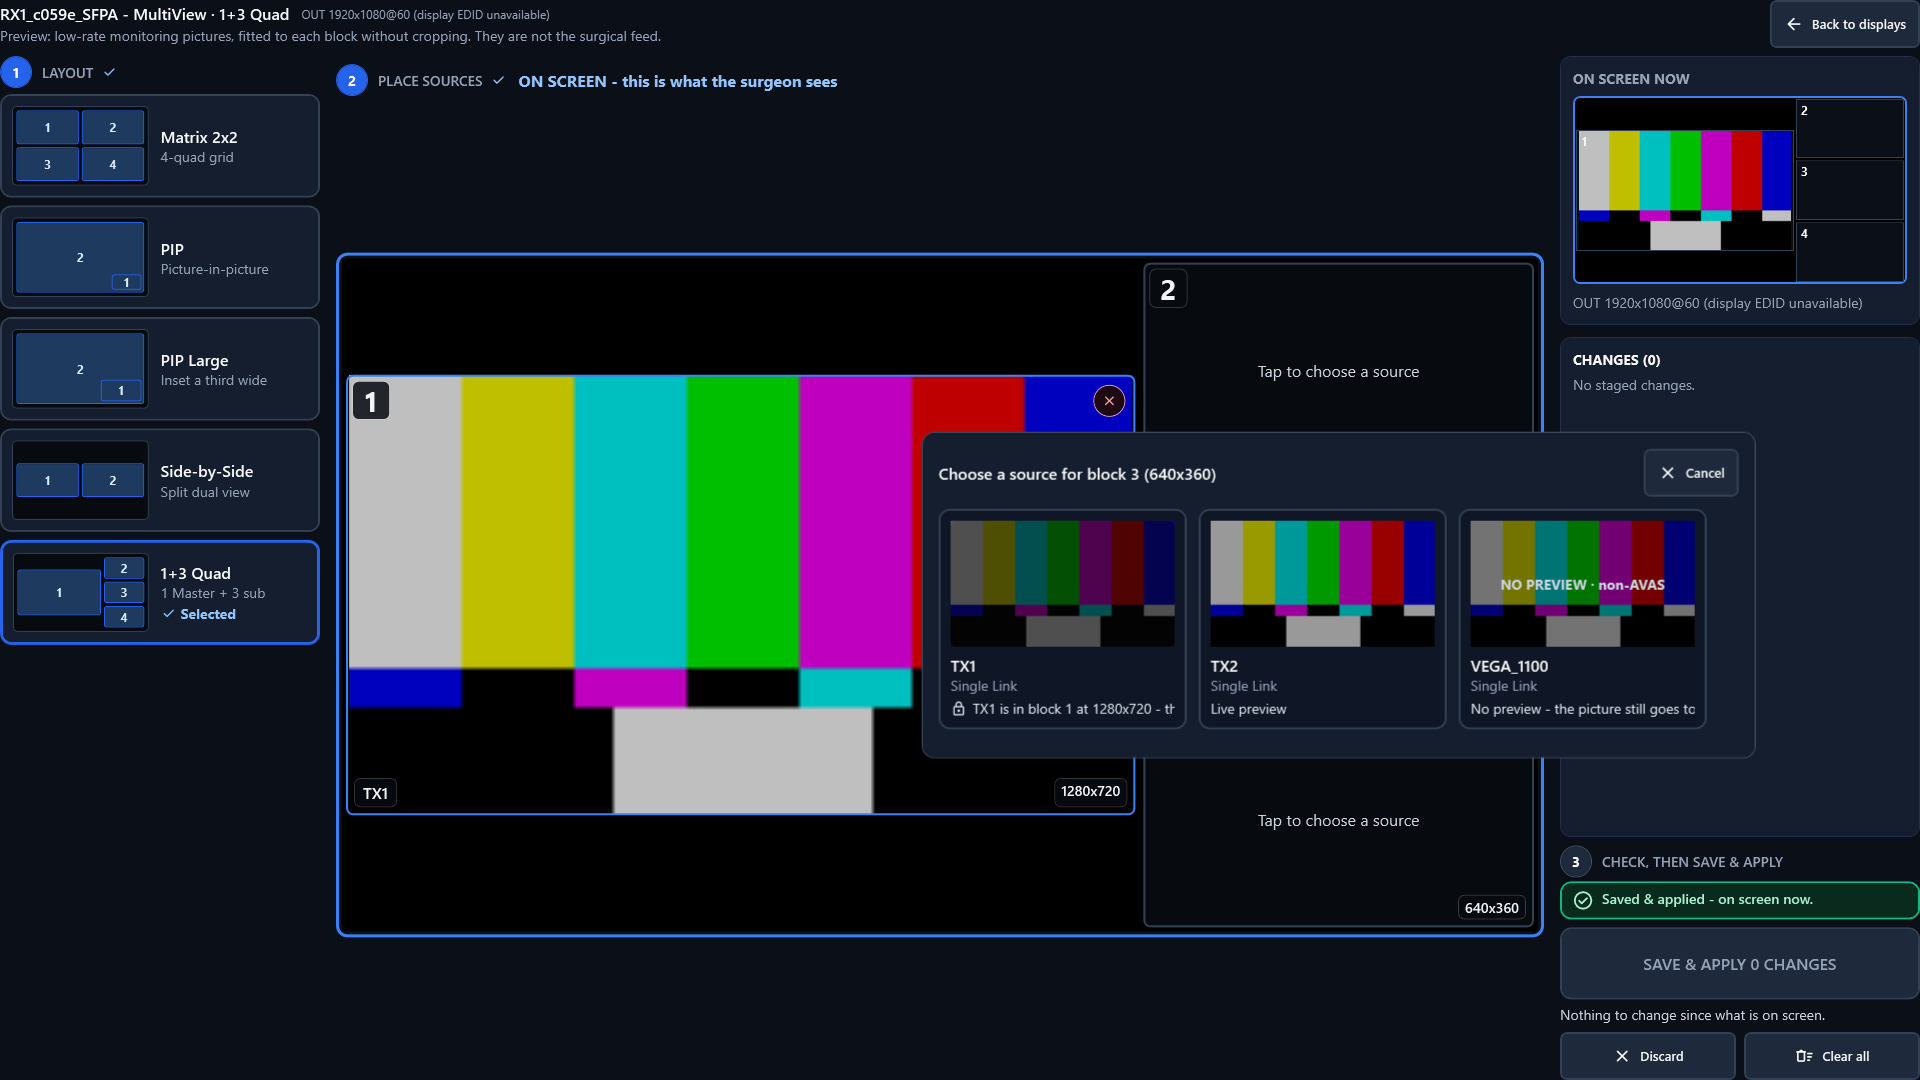
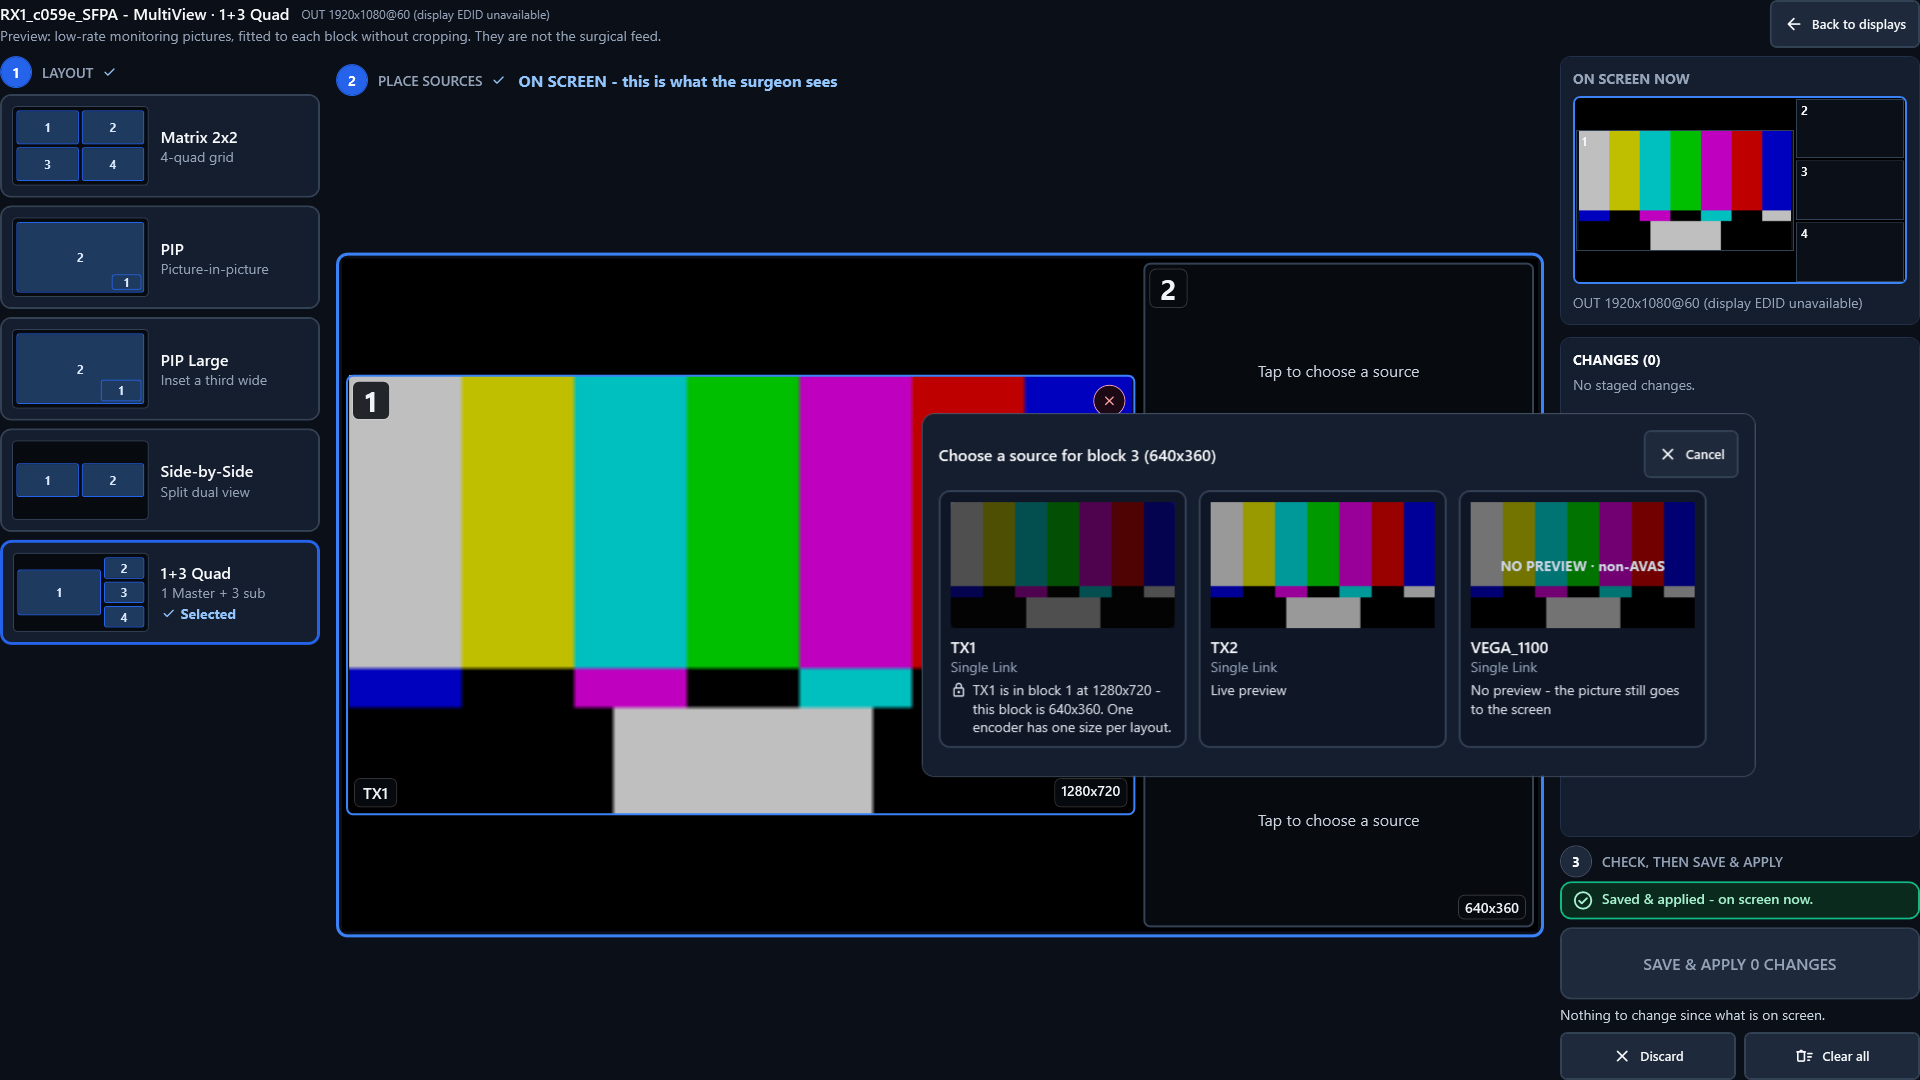
fix(composer): picker lock reason wraps inside the tile instead of clipping
The lock icon and reason sat in a horizontal StackPanel, which measures the
text with unlimited width, so TextWrapping never applied and the reason was
cut at the tile edge. A two-column Grid gives the text the remaining width.

Changed region(s): [[0.4688, 0.5194, 0.9062, 0.7333], [0.4688, 0.3667, 0.9062, 0.4889]]

diff --git a/src/AvasRoutingTool/Views/MultiViewComposerView.xaml b/src/AvasRoutingTool/Views/MultiViewComposerView.xaml
@@ -602,10 +602,14 @@
                                             </controls:FractionalLayoutPanel>
                                             <TextBlock Text="{Binding Source.DeviceName, Mode=OneWay}" Style="{StaticResource Style.Text.Picker.Name}" />
                                             <TextBlock Text="{Binding Source.LinkMode, Mode=OneWay}" Style="{StaticResource Style.Text.ComposerLabel}" />
-                                            <StackPanel Orientation="Horizontal" Margin="0,4,0,0">
+                                            <Grid Margin="0,4,0,0">
+                                                <Grid.ColumnDefinitions>
+                                                    <ColumnDefinition Width="Auto" />
+                                                    <ColumnDefinition Width="*" />
+                                                </Grid.ColumnDefinitions>
                                                 <controls:MaterialIcon Kind="lock" Style="{StaticResource Style.Icon.PickerLock}" />
-                                                <TextBlock Text="{Binding Note, Mode=OneWay}" Style="{StaticResource Style.Text.Picker.Note}" />
-                                            </StackPanel>
+                                                <TextBlock Grid.Column="1" Text="{Binding Note, Mode=OneWay}" Style="{StaticResource Style.Text.Picker.Note}" />
+                                            </Grid>
                                         </StackPanel>
                                     </Button>
                                 </DataTemplate>

diff --git a/tests/AvasRoutingTool.Tests/ViewSmokeTests.Composer.cs b/tests/AvasRoutingTool.Tests/ViewSmokeTests.Composer.cs
@@ -2830,5 +2830,31 @@ namespace AvasRoutingTool.Tests
                     }
                 });
             });
+
+        [Fact]
+        public void Composer_PickerPopup_LockReason_WrapsInsideTheTile_NeverClipped() =>
+            RunSta(() =>
+            {
+                var (rig, c) = PickerRig();
+                var view = rig.View(c);
+                Showing(view, () =>
+                {
+                    var popup = (Popup)Named(view, "PickerPopup").Single();
+                    var content = (FrameworkElement)popup.Child;
+                    Relayout(content);
+                    var disabled = Named(content, "PickerTile").Cast<Button>().Where(t => !t.IsEnabled).ToList();
+                    Assert.NotEmpty(disabled);
+                    foreach (var tile in disabled)
+                    {
+                        var note = FindAll<TextBlock>(tile).Single(tb => tb.Style == Application.Current.FindResource("Style.Text.Picker.Note"));
+                        Assert.False(string.IsNullOrWhiteSpace(note.Text));
+                        // The whole reason is laid out: its right edge is inside the tile and no line is wider than the space it was given.
+                        var right = note.TranslatePoint(new Point(note.ActualWidth, 0), tile).X;
+                        Assert.True(right <= tile.ActualWidth, $"lock reason runs past the tile: right {right:F1} > {tile.ActualWidth:F1}");
+                        Assert.True(note.DesiredSize.Width <= note.ActualWidth + 0.5, $"lock reason wants {note.DesiredSize.Width:F1} but got {note.ActualWidth:F1}");
+                        Assert.True(note.ActualHeight > 0);
+                    }
+                });
+            });
     }
 }
